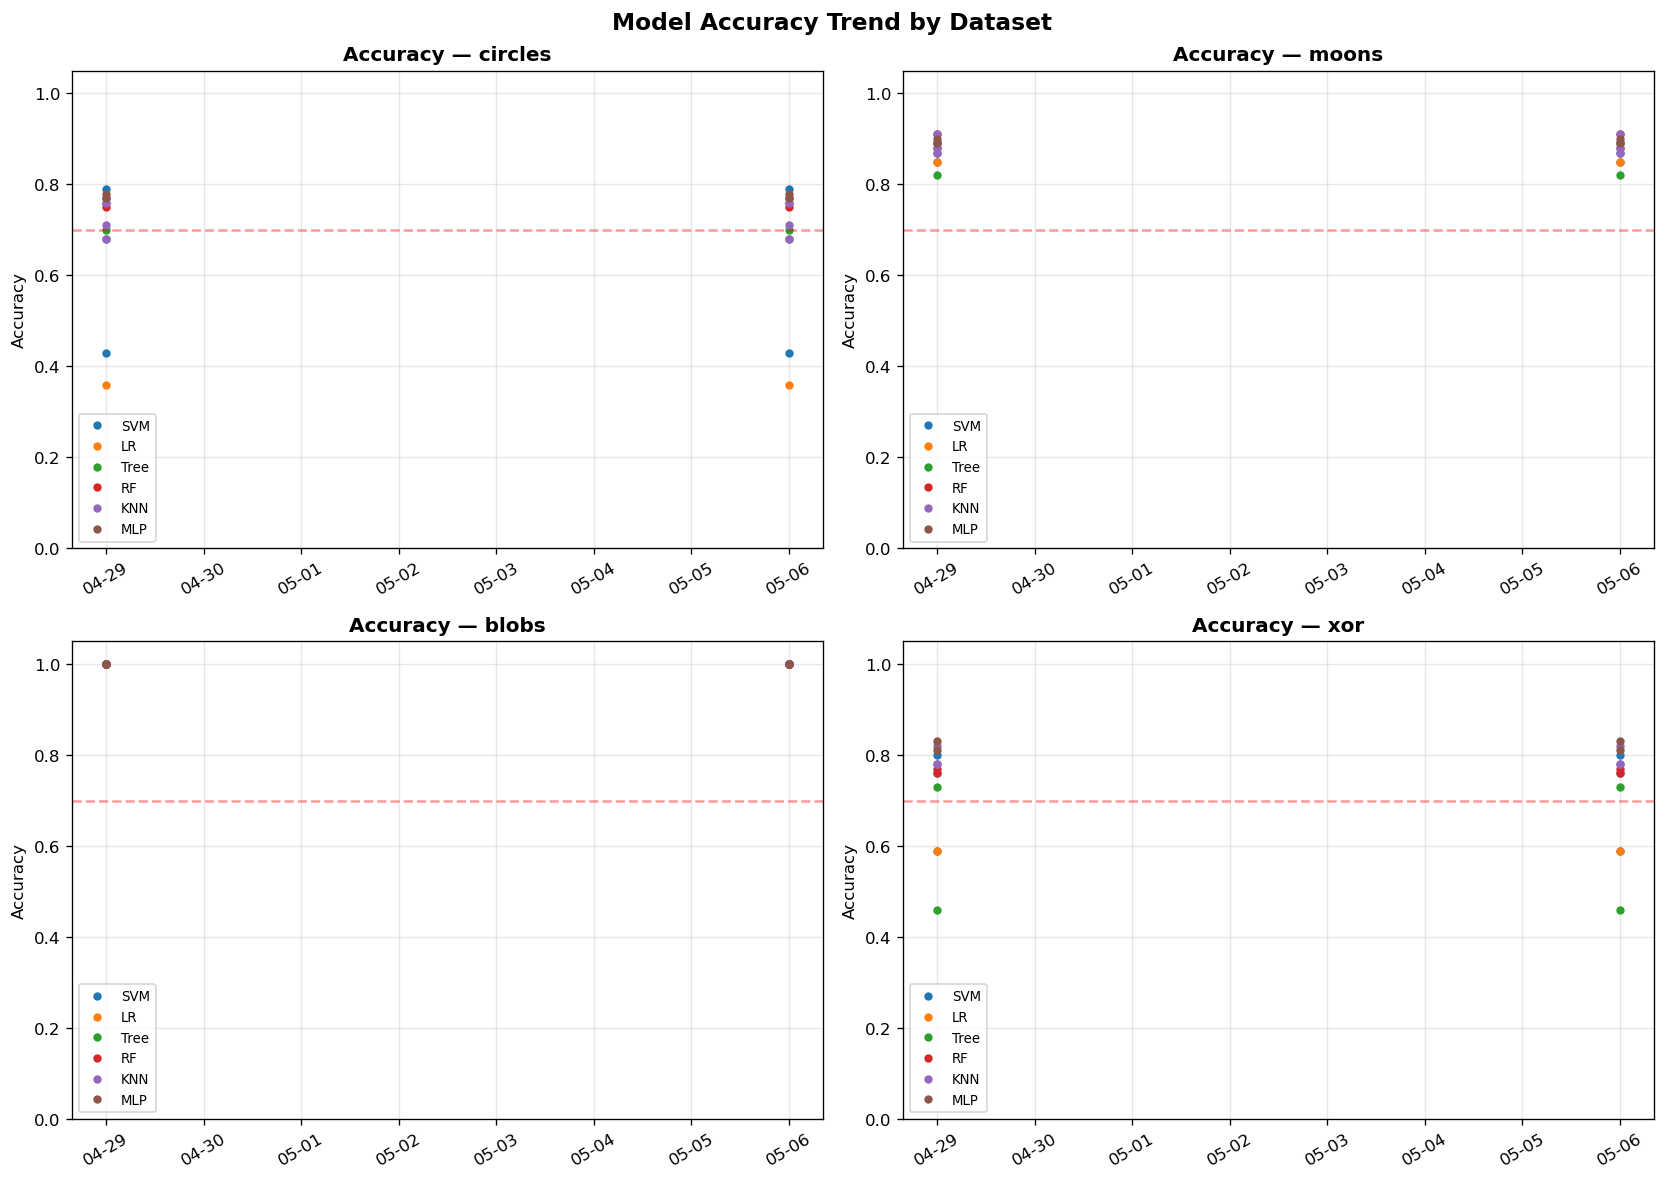
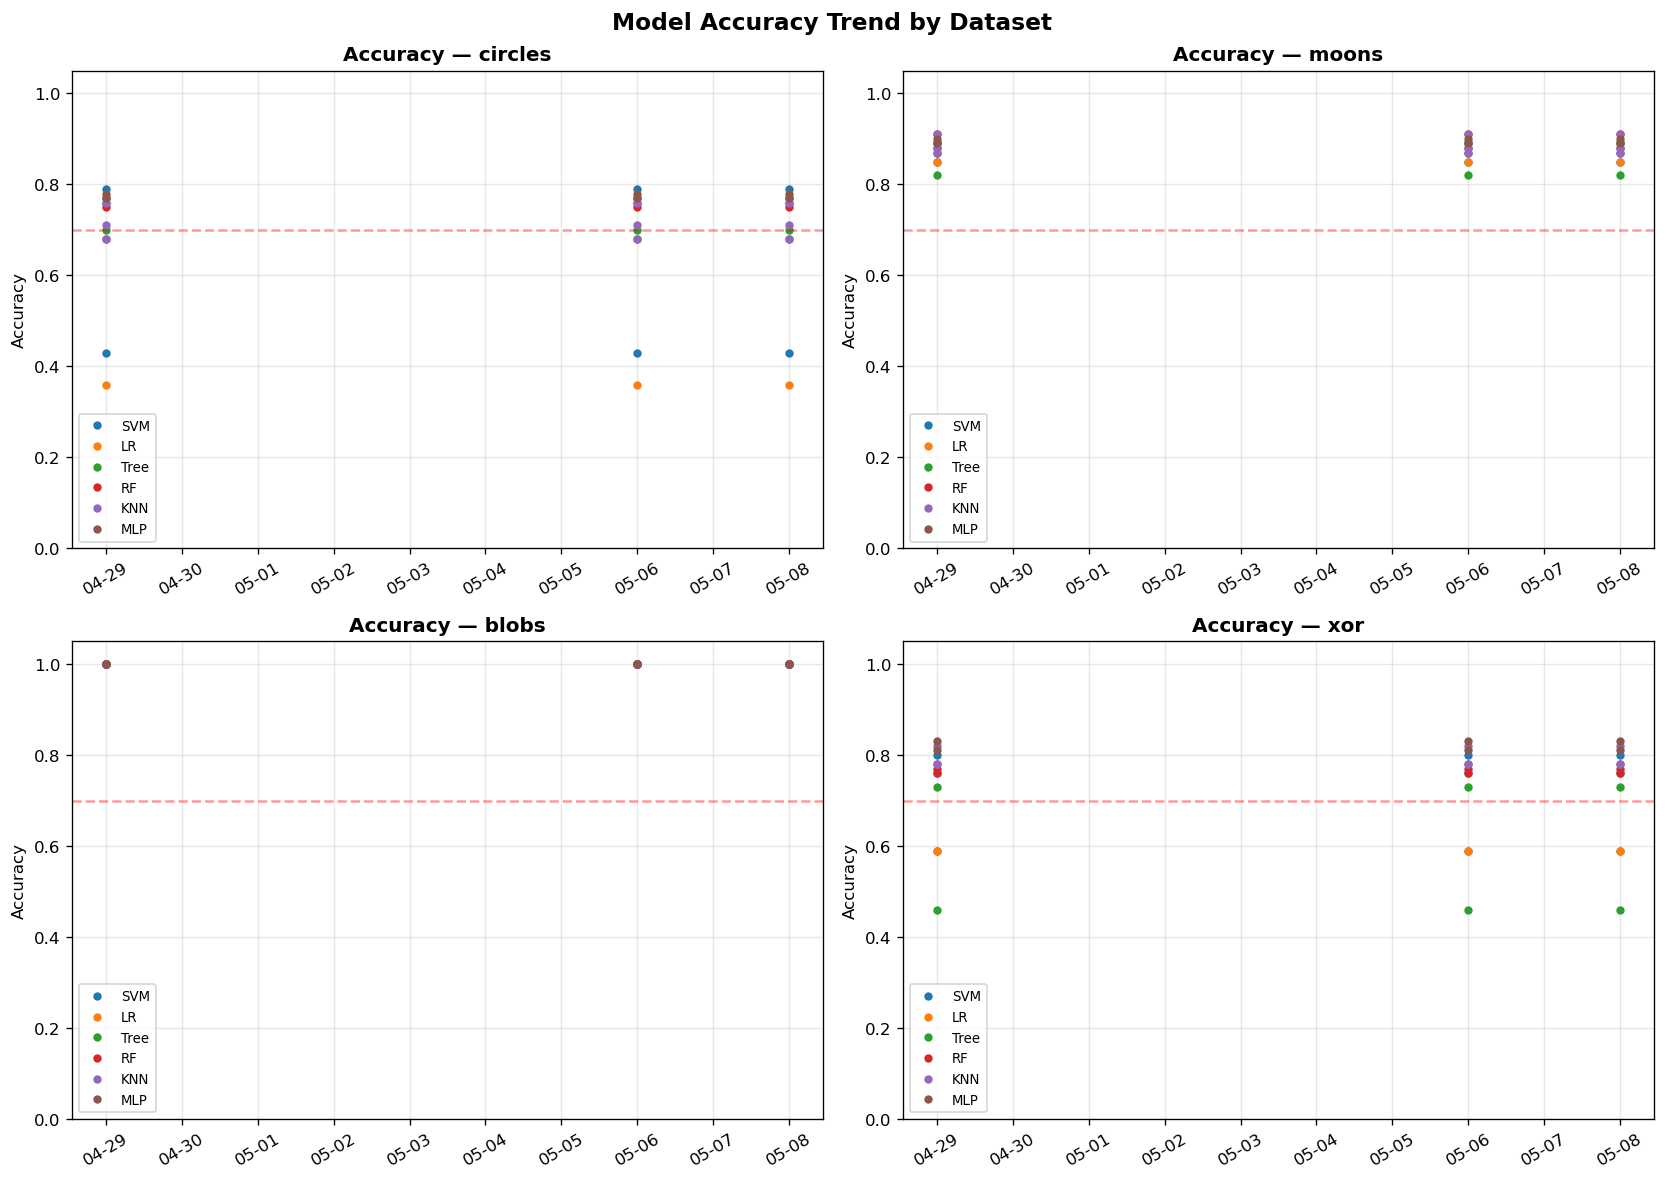
docs(benchmarks): refresh 2026-05-08 reports with latest full-suite run

diff --git a/benchmarks/reports/2026-05-08.html b/benchmarks/reports/2026-05-08.html
@@ -42,7 +42,7 @@
 <div class="container">
 <header>
   <h1>📊 Benchmark Report — ml-decision-boundary</h1>
-  <p class="meta">Latest run: <strong>2026-05-06</strong> &nbsp;|&nbsp; Total reports: 7 &nbsp;|&nbsp; Full suite: 2 &nbsp;|&nbsp; Smoke: 5</p>
+  <p class="meta">Latest run: <strong>2026-05-08</strong> &nbsp;|&nbsp; Total reports: 7 &nbsp;|&nbsp; Full suite: 3 &nbsp;|&nbsp; Smoke: 4</p>
 </header>
 
 <h2>📈 Summary Cards</h2>
@@ -71,11 +71,25 @@
         </div>
         
 
-<h2>📋 Latest Results (2026-05-06)</h2>
+<h2>📋 Latest Results (2026-05-08)</h2>
 <table>
   <thead><tr><th>Dataset</th><th>Model</th><th>Accuracy</th><th>Train Time</th><th>Status</th></tr></thead>
   <tbody>
   
+        <tr>
+          <td>blobs</td>
+          <td><code>KNN</code></td>
+          <td>1.0000</td>
+          <td>0.0005s</td>
+          <td>✅</td>
+        </tr>
+        <tr>
+          <td>blobs</td>
+          <td><code>KNN</code></td>
+          <td>1.0000</td>
+          <td>0.0005s</td>
+          <td>✅</td>
+        </tr>
         <tr>
           <td>blobs</td>
           <td><code>KNN</code></td>
@@ -85,86 +99,72 @@
         </tr>
         <tr>
           <td>blobs</td>
-          <td><code>KNN</code></td>
-          <td>1.0000</td>
-          <td>0.0007s</td>
-          <td>✅</td>
-        </tr>
-        <tr>
-          <td>blobs</td>
-          <td><code>KNN</code></td>
-          <td>1.0000</td>
-          <td>0.0007s</td>
-          <td>✅</td>
-        </tr>
-        <tr>
-          <td>blobs</td>
           <td><code>LR</code></td>
           <td>1.0000</td>
-          <td>0.0056s</td>
+          <td>0.0039s</td>
           <td>✅</td>
         </tr>
         <tr>
           <td>blobs</td>
           <td><code>MLP</code></td>
           <td>1.0000</td>
-          <td>0.1224s</td>
+          <td>0.0877s</td>
           <td>✅</td>
         </tr>
         <tr>
           <td>blobs</td>
           <td><code>MLP</code></td>
           <td>1.0000</td>
-          <td>0.6516s</td>
+          <td>0.4281s</td>
           <td>✅</td>
         </tr>
         <tr>
           <td>blobs</td>
           <td><code>RF</code></td>
           <td>1.0000</td>
-          <td>0.0570s</td>
+          <td>0.0395s</td>
           <td>✅</td>
         </tr>
         <tr>
           <td>blobs</td>
           <td><code>RF</code></td>
           <td>1.0000</td>
-          <td>0.1154s</td>
+          <td>0.0779s</td>
           <td>✅</td>
         </tr>
         <tr>
           <td>blobs</td>
           <td><code>SVM</code></td>
-          <td>1.0000</td>
-          <td>0.0015s</td>
-          <td>✅</td>
-        </tr>
-        <tr>
-          <td>blobs</td>
-          <td><code>SVM</code></td>
-          <td>1.0000</td>
-          <td>0.0015s</td>
-          <td>✅</td>
-        </tr>
-        <tr>
-          <td>blobs</td>
-          <td><code>SVM</code></td>
-          <td>1.0000</td>
-          <td>0.0012s</td>
-          <td>✅</td>
-        </tr>
-        <tr>
-          <td>blobs</td>
-          <td><code>Tree</code></td>
           <td>1.0000</td>
           <td>0.0010s</td>
           <td>✅</td>
         </tr>
         <tr>
           <td>blobs</td>
-          <td><code>Tree</code></td>
+          <td><code>SVM</code></td>
+          <td>1.0000</td>
+          <td>0.0010s</td>
+          <td>✅</td>
+        </tr>
+        <tr>
+          <td>blobs</td>
+          <td><code>SVM</code></td>
           <td>1.0000</td>
           <td>0.0009s</td>
+          <td>✅</td>
+        </tr>
+        <tr>
+          <td>blobs</td>
+          <td><code>Tree</code></td>
+          <td>1.0000</td>
+          <td>0.0007s</td>
+          <td>✅</td>
+        </tr>
+        <tr>
+          <td>blobs</td>
+          <td><code>Tree</code></td>
+          <td>1.0000</td>
+          <td>0.0007s</td>
           <td>✅</td>
         </tr>
         <tr>
@@ -178,7 +178,7 @@
           <td>circles</td>
           <td><code>KNN</code></td>
           <td>0.7100</td>
-          <td>0.0005s</td>
+          <td>0.0006s</td>
           <td>✅</td>
         </tr>
         <tr>
@@ -192,35 +192,35 @@
           <td>circles</td>
           <td><code>LR</code></td>
           <td>0.3600</td>
-          <td>0.0016s</td>
+          <td>0.0017s</td>
           <td>❌</td>
         </tr>
         <tr>
           <td>circles</td>
           <td><code>MLP</code></td>
           <td>0.7800</td>
-          <td>0.2063s</td>
+          <td>0.2016s</td>
           <td>✅</td>
         </tr>
         <tr>
           <td>circles</td>
           <td><code>MLP</code></td>
           <td>0.7700</td>
-          <td>1.1955s</td>
+          <td>1.1965s</td>
           <td>✅</td>
         </tr>
         <tr>
           <td>circles</td>
           <td><code>RF</code></td>
           <td>0.7500</td>
-          <td>0.0434s</td>
+          <td>0.0435s</td>
           <td>✅</td>
         </tr>
         <tr>
           <td>circles</td>
           <td><code>RF</code></td>
           <td>0.7700</td>
-          <td>0.0945s</td>
+          <td>0.0932s</td>
           <td>✅</td>
         </tr>
         <tr>
@@ -241,7 +241,7 @@
           <td>circles</td>
           <td><code>SVM</code></td>
           <td>0.4300</td>
-          <td>0.0030s</td>
+          <td>0.0029s</td>
           <td>❌</td>
         </tr>
         <tr>
@@ -255,7 +255,7 @@
           <td>circles</td>
           <td><code>Tree</code></td>
           <td>0.6800</td>
-          <td>0.0014s</td>
+          <td>0.0013s</td>
           <td>❌</td>
         </tr>
         <tr>
@@ -290,28 +290,28 @@
           <td>moons</td>
           <td><code>MLP</code></td>
           <td>0.8900</td>
-          <td>0.6193s</td>
+          <td>0.4590s</td>
           <td>✅</td>
         </tr>
         <tr>
           <td>moons</td>
           <td><code>MLP</code></td>
           <td>0.9000</td>
-          <td>2.4513s</td>
+          <td>1.5555s</td>
           <td>✅</td>
         </tr>
         <tr>
           <td>moons</td>
           <td><code>RF</code></td>
           <td>0.9100</td>
-          <td>0.0436s</td>
+          <td>0.0419s</td>
           <td>✅</td>
         </tr>
         <tr>
           <td>moons</td>
           <td><code>RF</code></td>
           <td>0.8800</td>
-          <td>0.0858s</td>
+          <td>0.0880s</td>
           <td>✅</td>
         </tr>
         <tr>
@@ -353,91 +353,91 @@
           <td>xor</td>
           <td><code>KNN</code></td>
           <td>0.7800</td>
-          <td>0.0007s</td>
+          <td>0.0005s</td>
           <td>✅</td>
         </tr>
         <tr>
           <td>xor</td>
           <td><code>KNN</code></td>
           <td>0.8200</td>
-          <td>0.0007s</td>
+          <td>0.0006s</td>
           <td>✅</td>
         </tr>
         <tr>
           <td>xor</td>
           <td><code>KNN</code></td>
           <td>0.7800</td>
-          <td>0.0006s</td>
+          <td>0.0005s</td>
           <td>✅</td>
         </tr>
         <tr>
           <td>xor</td>
           <td><code>LR</code></td>
           <td>0.5900</td>
-          <td>0.0019s</td>
+          <td>0.0013s</td>
           <td>❌</td>
         </tr>
         <tr>
           <td>xor</td>
           <td><code>MLP</code></td>
           <td>0.8100</td>
-          <td>0.1571s</td>
+          <td>0.1614s</td>
           <td>✅</td>
         </tr>
         <tr>
           <td>xor</td>
           <td><code>MLP</code></td>
           <td>0.8300</td>
-          <td>1.2983s</td>
+          <td>1.2676s</td>
           <td>✅</td>
         </tr>
         <tr>
           <td>xor</td>
           <td><code>RF</code></td>
           <td>0.7600</td>
-          <td>0.0643s</td>
+          <td>0.0430s</td>
           <td>✅</td>
         </tr>
         <tr>
           <td>xor</td>
           <td><code>RF</code></td>
           <td>0.7700</td>
-          <td>0.1312s</td>
+          <td>0.0915s</td>
           <td>✅</td>
         </tr>
         <tr>
           <td>xor</td>
           <td><code>SVM</code></td>
           <td>0.7600</td>
-          <td>0.0043s</td>
+          <td>0.0029s</td>
           <td>✅</td>
         </tr>
         <tr>
           <td>xor</td>
           <td><code>SVM</code></td>
           <td>0.8000</td>
-          <td>0.0049s</td>
+          <td>0.0032s</td>
           <td>✅</td>
         </tr>
         <tr>
           <td>xor</td>
           <td><code>SVM</code></td>
           <td>0.5900</td>
-          <td>0.0055s</td>
+          <td>0.0035s</td>
           <td>❌</td>
         </tr>
         <tr>
           <td>xor</td>
           <td><code>Tree</code></td>
           <td>0.4600</td>
-          <td>0.0012s</td>
+          <td>0.0009s</td>
           <td>❌</td>
         </tr>
         <tr>
           <td>xor</td>
           <td><code>Tree</code></td>
           <td>0.7300</td>
-          <td>0.0016s</td>
+          <td>0.0012s</td>
           <td>✅</td>
         </tr>
   </tbody>
@@ -462,7 +462,7 @@
 <table>
   <thead><tr><th>Date</th><th>Type</th><th>Experiments</th><th>Passed</th><th>Avg Accuracy</th><th>Avg Train Time</th><th>Status</th></tr></thead>
   <tbody>
-  <tr><td>2026-05-08</td><td>Smoke</td><td>circles</td><td>SVM</td><td>0.7900</td><td>—</td><td>✅</td></tr><tr><td>2026-05-07</td><td>Smoke</td><td>circles</td><td>SVM</td><td>0.7900</td><td>—</td><td>✅</td></tr><tr><td>2026-05-06</td><td>Full</td><td>52</td><td>45</td><td>0.8237</td><td>0.1423s</td><td>⚠</td></tr><tr><td>2026-05-05</td><td>Smoke</td><td>circles</td><td>SVM</td><td>0.7900</td><td>—</td><td>✅</td></tr><tr><td>2026-04-30</td><td>Smoke</td><td>circles</td><td>SVM</td><td>0.7900</td><td>—</td><td>✅</td></tr><tr><td>2026-04-29</td><td>Full</td><td>52</td><td>45</td><td>0.8237</td><td>0.1147s</td><td>⚠</td></tr><tr><td>2026-04-28</td><td>Smoke</td><td>circles</td><td>SVM</td><td>0.7900</td><td>—</td><td>✅</td></tr>
+  <tr><td>2026-05-08</td><td>Full</td><td>52</td><td>45</td><td>0.8237</td><td>0.1140s</td><td>⚠</td></tr><tr><td>2026-05-07</td><td>Smoke</td><td>circles</td><td>SVM</td><td>0.7900</td><td>—</td><td>✅</td></tr><tr><td>2026-05-06</td><td>Full</td><td>52</td><td>45</td><td>0.8237</td><td>0.1423s</td><td>⚠</td></tr><tr><td>2026-05-05</td><td>Smoke</td><td>circles</td><td>SVM</td><td>0.7900</td><td>—</td><td>✅</td></tr><tr><td>2026-04-30</td><td>Smoke</td><td>circles</td><td>SVM</td><td>0.7900</td><td>—</td><td>✅</td></tr><tr><td>2026-04-29</td><td>Full</td><td>52</td><td>45</td><td>0.8237</td><td>0.1147s</td><td>⚠</td></tr><tr><td>2026-04-28</td><td>Smoke</td><td>circles</td><td>SVM</td><td>0.7900</td><td>—</td><td>✅</td></tr>
   </tbody>
 </table>
 

diff --git a/benchmarks/reports/2026-05-08.md b/benchmarks/reports/2026-05-08.md
@@ -7,7 +7,7 @@
 | Dataset | circles |
 | Model | SVM |
 | Accuracy | 0.7900 |
-| Train time | 0.0049s |
-| Wall time | 0.5224s |
+| Train time | 0.0031s |
+| Wall time | 0.3080s |
 | Threshold | 0.7000 |
 | Passed | ✅ |
